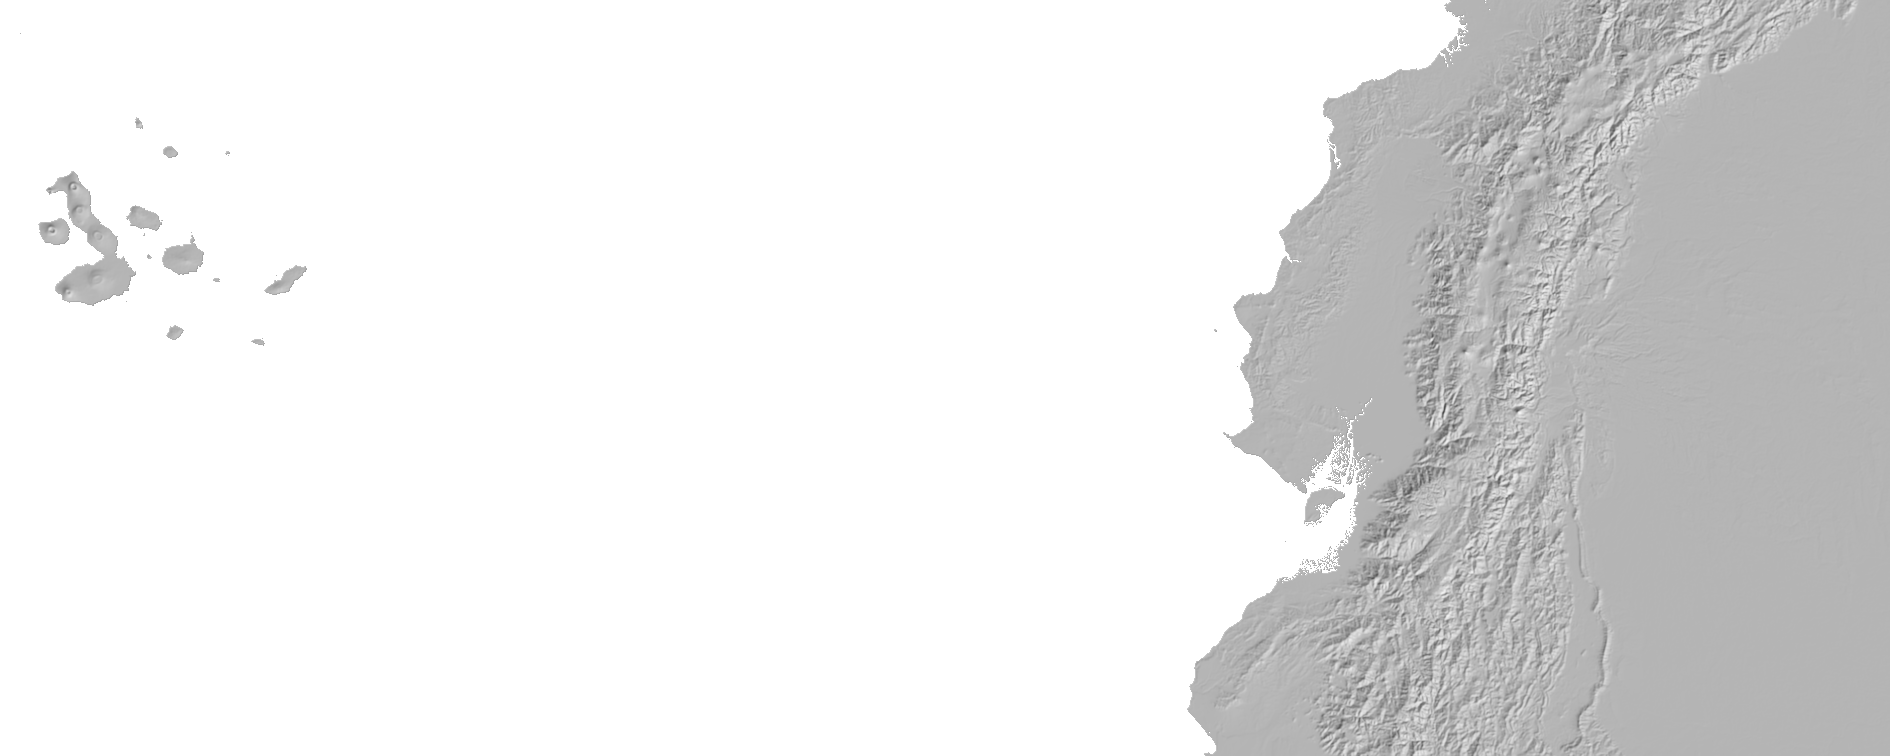
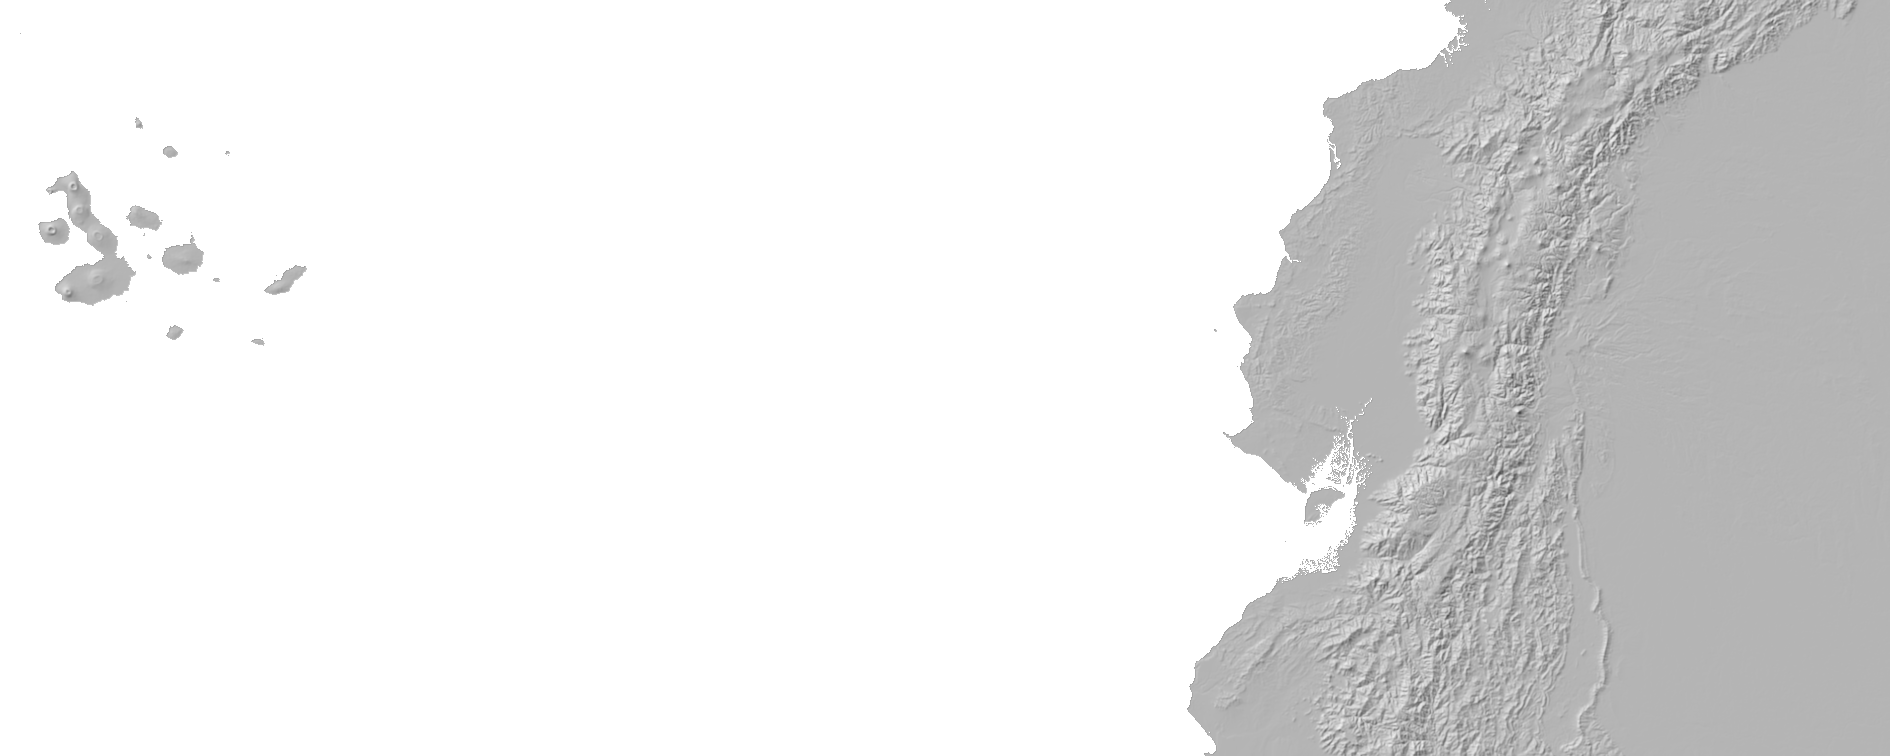
Relieve uniforme para Luna y Marte (Horn 315°/45°, celda métrica, z = píxel/1066, Web Mercator sobre WORLD) y luz del hillshade Unity desde el noroeste.

diff --git a/web/scripts/basemap_relieve.py b/web/scripts/basemap_relieve.py
@@ -1,0 +1,163 @@
+#!/usr/bin/env python3
+"""Relieve sombreado uniforme para el globo del tablero (Luna y Marte, datos NASA PDS).
+
+Método (igual para todos los cuerpos):
+  * DEM promediado por área a una malla equirectangular de 2048×1024.
+  * Horn 3×3, acimut geográfico 315° (luz desde el noroeste), altura solar 45°.
+  * Celda métrica a partir del radio del cuerpo: dx = R·Δλ·cos φ, dy = R·Δφ.
+  * Exageración vertical z = tamaño de píxel ecuatorial (m) / 1066.
+  * Salida clip(hs, 0, 1)·255, sin percentiles ni gamma; alfa 255, nodata alfa 0.
+  * Reproyección a Web Mercator 2048×2048 que cubre exactamente las esquinas WORLD
+    de web/src/maps.ts (lon ±179.9°, lat ±85°), para que la capa image de MapLibre
+    ponga cada cráter en su latitud real.
+
+Solo lee los IMG originales del PDS (numpy + Pillow, sin GDAL). No toca δ ni el índice.
+
+Uso:
+  python3 web/scripts/basemap_relieve.py luna marte
+  python3 web/scripts/basemap_relieve.py --raw /ruta/a/data/raw --out web/public/basemap luna
+"""
+from __future__ import annotations
+
+import argparse
+import math
+from pathlib import Path
+
+import numpy as np
+from PIL import Image
+
+AZIMUTH_DEG = 315.0          # geográfico, horario desde el norte
+ALTITUDE_DEG = 45.0
+Z_DIVISOR = 1066.0           # z = tamaño de píxel ecuatorial en metros / 1066
+EQ_W, EQ_H = 2048, 1024      # malla equirectangular de cálculo
+OUT_W, OUT_H = 2048, 2048    # PNG Web Mercator
+# Esquinas de la capa image en web/src/maps.ts (const WORLD)
+WORLD_LON = 179.9
+WORLD_LAT = 85.0
+
+DEFAULT_RAW = Path("/workspace/analogs/data/raw")
+DEFAULT_OUT = Path(__file__).resolve().parents[1] / "public" / "basemap"
+
+
+# ---------------------------------------------------------------- lectura PDS
+def _block_mean(src: np.ndarray, scale: float, offset: float, f: int) -> np.ndarray:
+    """Promedio por bloques f×f leyendo por franjas (memmap)."""
+    h, w = src.shape
+    out = np.empty((h // f, w // f), dtype=np.float64)
+    step = f * 64
+    for r0 in range(0, h, step):
+        blk = src[r0:r0 + step].astype(np.float64) * scale + offset
+        bh = blk.shape[0] // f
+        out[r0 // f:r0 // f + bh] = blk[:bh * f].reshape(bh, f, w // f, f).mean(axis=(1, 3))
+    return out
+
+
+def _area_resize(a: np.ndarray, w: int, h: int) -> np.ndarray:
+    im = Image.fromarray(a.astype(np.float32), mode="F")
+    return np.asarray(im.resize((w, h), Image.Resampling.BOX), dtype=np.float64)
+
+
+def leer_luna(raw: Path) -> np.ndarray:
+    """LOLA LDEM_64 (23040×11520, int16 LSB, 0.5 m/DN, lon 0→360 E, fila 0 = 90°N)."""
+    p = raw / "moon/lola_ldem64/ldem_64.img"
+    a = np.memmap(p, dtype="<i2", mode="r", shape=(11520, 23040))
+    return _area_resize(_block_mean(a, 0.5, 0.0, 9), EQ_W, EQ_H)
+
+
+def leer_marte(raw: Path) -> np.ndarray:
+    """MOLA MEGDR 64 ppd (4 teselas 5760×11520, int16 MSB, m sobre el areoide)."""
+    d = raw / "mars/mola_megdr64"
+    t = {k: np.memmap(d / f"megt{k}gb.img", dtype=">i2", mode="r", shape=(5760, 11520))
+         for k in ("90n000", "90n180", "00n000", "00n180")}
+    norte = np.hstack([_block_mean(t["90n000"], 1, 0, 9), _block_mean(t["90n180"], 1, 0, 9)])
+    sur = np.hstack([_block_mean(t["00n000"], 1, 0, 9), _block_mean(t["00n180"], 1, 0, 9)])
+    return _area_resize(np.vstack([norte, sur]), EQ_W, EQ_H)
+
+
+CUERPOS = {
+    # nombre: (radio m, lector, archivo, fuente)
+    "luna": (1737400.0, leer_luna, "hillshade_luna.png",
+             "LOLA LDEM_64 (LRO-L-LOLA-3-RDR-V1, NASA PDS Geosciences)"),
+    "marte": (3396000.0, leer_marte, "hillshade_marte.png",
+              "MOLA MEGDR 64 ppd MEGT (MGS-M-MOLA-5-MEGDR-L3-V1.0, NASA PDS Geosciences)"),
+}
+
+
+# ---------------------------------------------------------------- sombreado
+def horn_hillshade(z: np.ndarray, radius: float, zfactor: float) -> np.ndarray:
+    """Horn 3×3 en malla equirectangular global (lon con vuelta, fila 0 = norte)."""
+    h, w = z.shape
+    dlam = 2 * math.pi / w
+    dphi = math.pi / h
+    lat = (90.0 - (np.arange(h) + 0.5) * 180.0 / h)
+    dx = (radius * dlam * np.cos(np.radians(lat)))[:, None]
+    dy = radius * dphi
+    p = np.pad(z, ((1, 1), (0, 0)), mode="edge")
+    W = lambda a: np.roll(a, 1, axis=1)   # vecino oeste
+    E = lambda a: np.roll(a, -1, axis=1)  # vecino este
+    up, mid, dn = p[:-2], p[1:-1], p[2:]
+    dzdx = ((E(up) + 2 * E(mid) + E(dn)) - (W(up) + 2 * W(mid) + W(dn))) / (8 * dx)
+    dzdn = ((W(up) + 2 * up + E(up)) - (W(dn) + 2 * dn + E(dn))) / (8 * dy)  # hacia el norte
+    nx, ny, nz = -zfactor * dzdx, -zfactor * dzdn, np.ones_like(dzdx)
+    norm = np.sqrt(nx * nx + ny * ny + nz * nz)
+    az, alt = math.radians(AZIMUTH_DEG), math.radians(ALTITUDE_DEG)
+    lx, ly, lz = math.sin(az) * math.cos(alt), math.cos(az) * math.cos(alt), math.sin(alt)
+    return (nx * lx + ny * ly + nz * lz) / norm
+
+
+# ---------------------------------------------------------------- Mercator
+def a_mercator(hs: np.ndarray) -> np.ndarray:
+    """Remuestrea (bilineal) la malla equirectangular a Web Mercator sobre WORLD."""
+    h, w = hs.shape
+    ymax = math.log(math.tan(math.pi / 4 + math.radians(WORLD_LAT) / 2))
+    y = ymax - (np.arange(OUT_H) + 0.5) * (2 * ymax / OUT_H)
+    lat = np.degrees(np.arctan(np.sinh(y)))
+    lon = -WORLD_LON + (np.arange(OUT_W) + 0.5) * (2 * WORLD_LON / OUT_W)
+    lon360 = np.mod(lon, 360.0)
+    fr = (90.0 - lat) / 180.0 * h - 0.5
+    fc = lon360 / 360.0 * w - 0.5
+    r0 = np.clip(np.floor(fr).astype(int), 0, h - 2); tr = np.clip(fr - r0, 0, 1)
+    c0 = np.floor(fc).astype(int); tc = fc - c0
+    c0m, c1m = np.mod(c0, w), np.mod(c0 + 1, w)
+    R0, R1 = r0[:, None], (r0 + 1)[:, None]
+    TR, TC = tr[:, None], tc[None, :]
+    top = hs[R0, c0m[None, :]] * (1 - TC) + hs[R0, c1m[None, :]] * TC
+    bot = hs[R1, c0m[None, :]] * (1 - TC) + hs[R1, c1m[None, :]] * TC
+    return top * (1 - TR) + bot * TR
+
+
+def procesar(nombre: str, raw: Path, out: Path) -> dict:
+    radius, lector, archivo, fuente = CUERPOS[nombre]
+    dem = lector(raw)
+    valid = np.isfinite(dem)
+    dem = np.where(valid, dem, np.nanmedian(dem))
+    px_m = radius * 2 * math.pi / EQ_W
+    zf = px_m / Z_DIVISOR
+    hs = horn_hillshade(dem, radius, zf)
+    hs = np.where(valid, hs, np.nan)
+    merc = a_mercator(np.nan_to_num(hs, nan=0.0))
+    alpha = a_mercator(valid.astype(np.float64)) > 0.5
+    g = np.rint(np.clip(merc, 0, 1) * 255).astype(np.uint8)
+    rgba = np.dstack([g, g, g, np.where(alpha, 255, 0).astype(np.uint8)])
+    out.mkdir(parents=True, exist_ok=True)
+    Image.fromarray(rgba, mode="RGBA").save(out / archivo, format="PNG", optimize=True)
+    info = dict(cuerpo=nombre, archivo=archivo, fuente=fuente, radio_m=radius,
+                pixel_ecuatorial_m=round(px_m, 1), z=round(zf, 3),
+                negro_puro_pct=round(float((g == 0).mean() * 100), 2),
+                media=round(float(g.mean()), 1))
+    print(info)
+    return info
+
+
+def main():
+    ap = argparse.ArgumentParser(description=__doc__, formatter_class=argparse.RawDescriptionHelpFormatter)
+    ap.add_argument("cuerpos", nargs="*", default=["luna", "marte"], choices=sorted(CUERPOS))
+    ap.add_argument("--raw", type=Path, default=DEFAULT_RAW)
+    ap.add_argument("--out", type=Path, default=DEFAULT_OUT)
+    a = ap.parse_args()
+    for c in a.cuerpos:
+        procesar(c, a.raw, a.out)
+
+
+if __name__ == "__main__":
+    main()

diff --git a/web/scripts/export_unity_v1.py b/web/scripts/export_unity_v1.py
@@ -176,7 +176,9 @@ def hillshade(z, dx, dy, azimuth_deg=315.0, altitude_deg=45.0, nodata_mask=None)
     dzdy = ((pad[2:, 0:-2] + 2 * pad[2:, 1:-1] + pad[2:, 2:]) - (pad[0:-2, 0:-2] + 2 * pad[0:-2, 1:-1] + pad[0:-2, 2:])) / (8.0 * dy)
     slope = np.arctan(np.sqrt(dzdx * dzdx + dzdy * dzdy))
     aspect = np.arctan2(dzdy, -dzdx)
-    az = np.radians(azimuth_deg)
+    # aspect is a math angle (CCW from east, rows = south); azimuth is geographic
+    # (clockwise from north). Convert so 315° really means light from the NW.
+    az = np.radians((450.0 - azimuth_deg) % 360.0)
     alt = np.radians(altitude_deg)
     hs = np.sin(alt) * np.cos(slope) + np.cos(alt) * np.sin(slope) * np.cos(az - aspect)
     hs = np.clip(hs, 0, 1)
